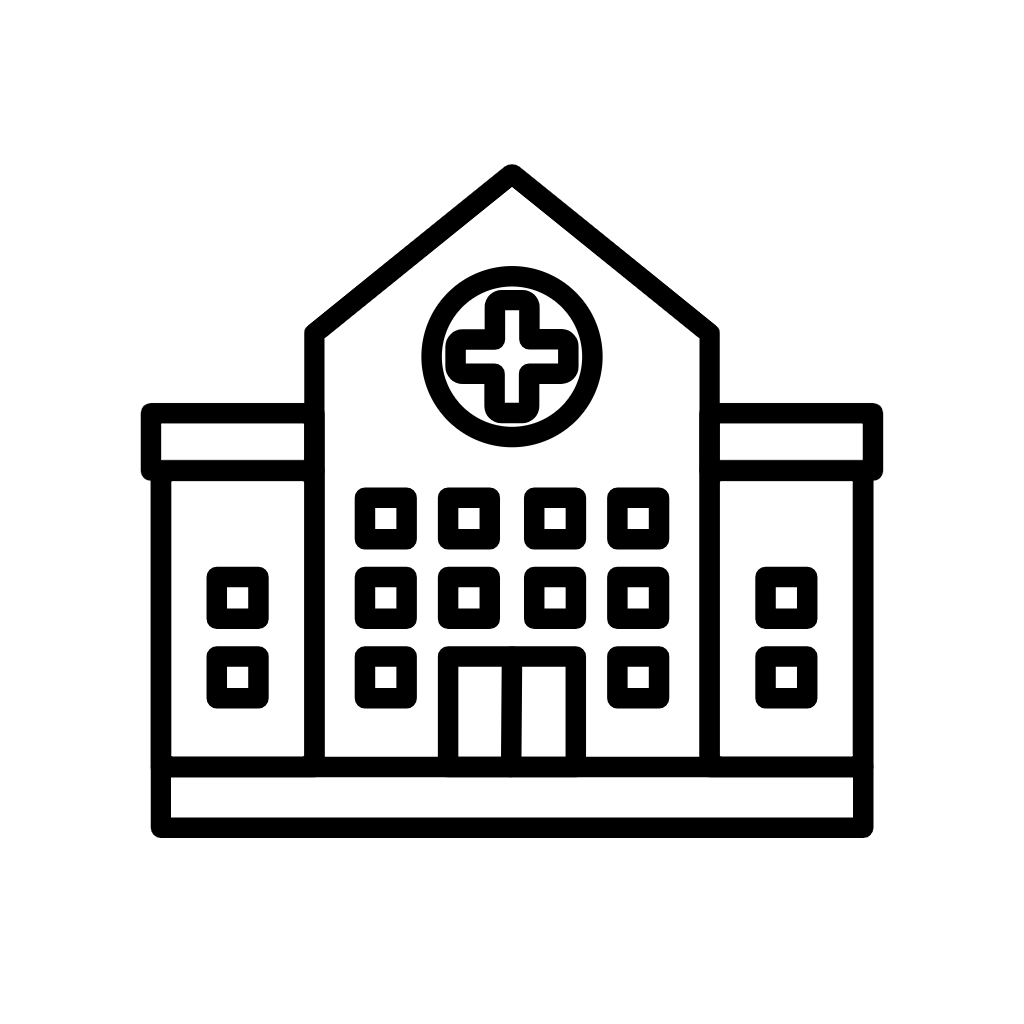
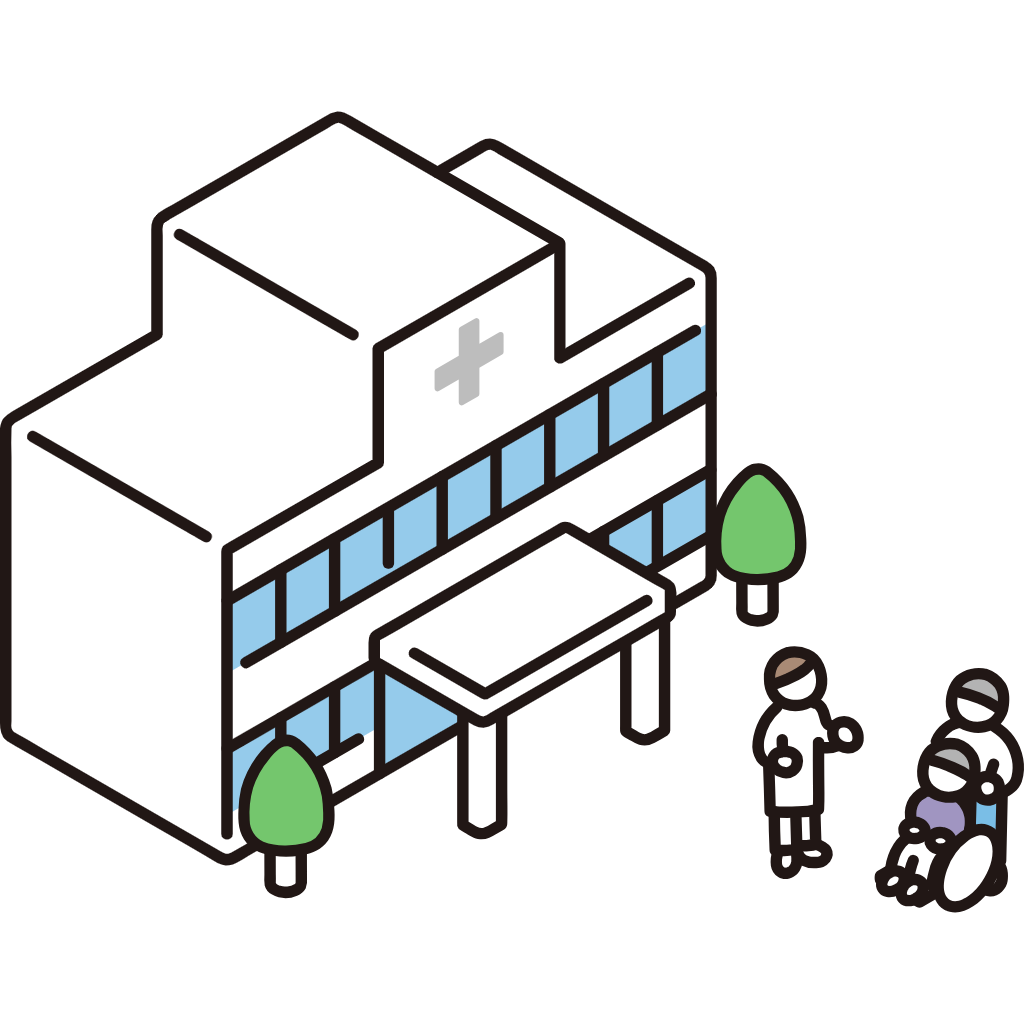
Switch Hospital card to new art

Changed region(s): [[0.0, 0.125, 1.0, 0.9062], [0.3125, 0.0938, 0.4062, 0.1562], [0.25, 0.125, 0.3125, 0.1562]]

diff --git a/index.html b/index.html
@@ -206,7 +206,7 @@
       </div>
       <div class="grid grid-3 why-modules">
         <div class="card">
-          <div class="why-module-icon" style="background:#EEF2FF"><img src="media/CuraOS-Hospital.bold.png" alt="" width="32" height="32"></div>
+          <div class="why-module-icon" style="background:#EEF2FF"><img src="media/CuraOS-Hospital.png" alt="" width="32" height="32"></div>
           <h4>CuraOS-Hospital <span>Enterprise</span></h4>
           <p class="why-tag">Complete hospital ecosystem — 10 to 500+ beds</p>
           <p class="why-impact"><strong>Zero Revenue Leakage:</strong> Unifies OPD, IPD, surgical margins, charge capture, and ward management in one live system.</p>
@@ -255,7 +255,7 @@
       <div class="grid grid-2">
         <a href="https://app.curaos.health/pricing?plan=cura-ihms" class="card shadow-floating-card">
           <div class="card-top">
-            <span class="icon-wrap" style="background:#EEF2FF"><img src="media/CuraOS-Hospital.bold.png" alt="" width="32" height="32"></span>
+            <span class="icon-wrap" style="background:#EEF2FF"><img src="media/CuraOS-Hospital.png" alt="" width="32" height="32"></span>
             <span class="price" id="price-cura-hospital" data-module="cura-ihms">$5000/mo</span>
           </div>
           <h3>CuraOS-Hospital (Enterprise)</h3>
